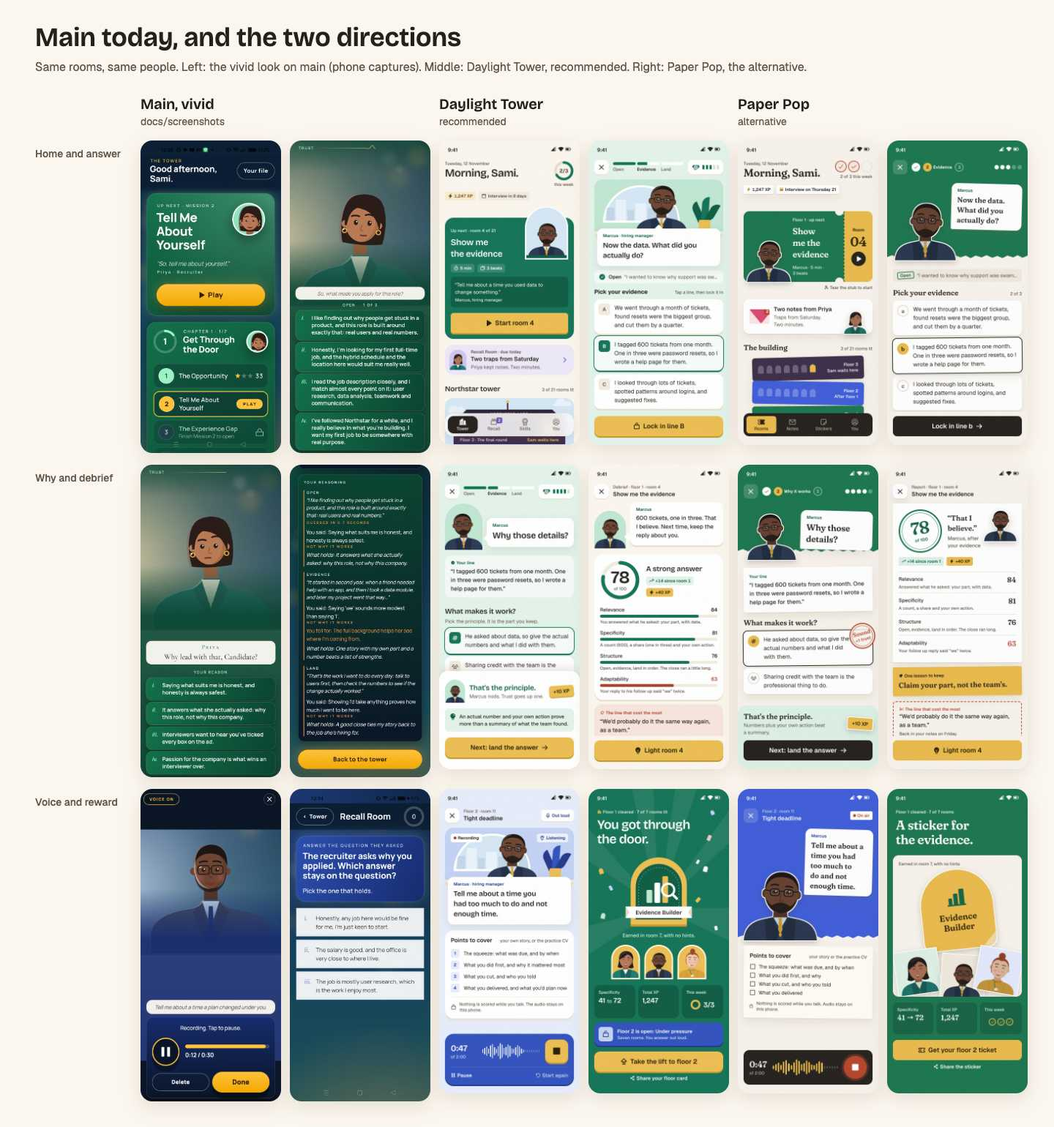
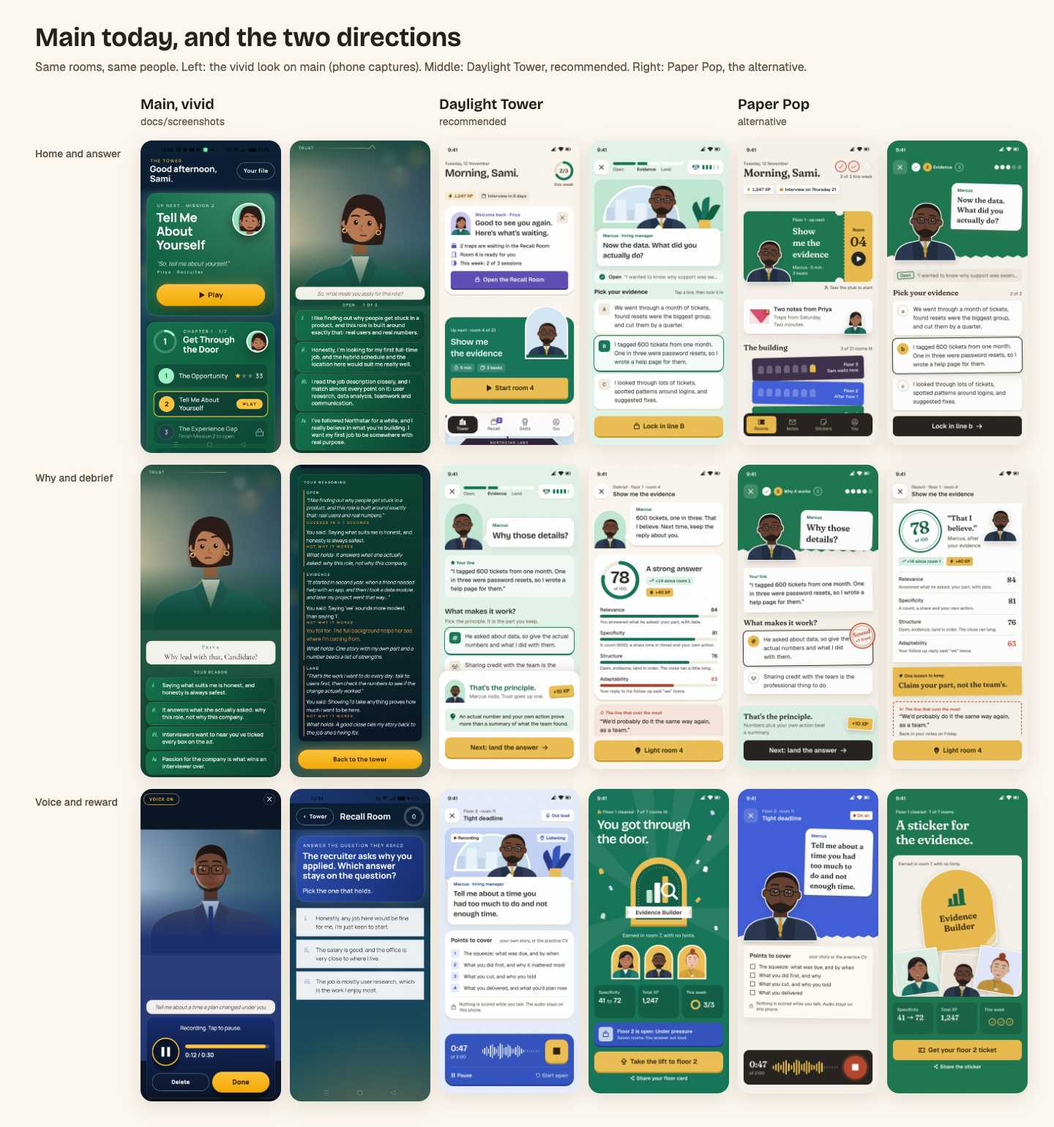
docs(design): make the direction implementation ready
Add the welcome-back card from main to the home mockup, the exact font
files and how to wire their axes, Dart token constants, the day 1, 3,
5 and 8 reminders, notes for the workers, and a shorter alternative.

Changelog: None

Changed region(s): [[0.4062, 0.187, 0.5625, 0.4052]]

diff --git a/docs/design/mockups/daylight/01b-home-tower.html b/docs/design/mockups/daylight/01b-home-tower.html
@@ -9,7 +9,7 @@
 <link rel="stylesheet" href="https://unpkg.com/@phosphor-icons/web@2.1.1/src/fill/style.css">
 <link rel="stylesheet" href="tokens.css">
 <style>
-main { padding: 8px 16px 0; transform: translateY(-520px); }
+main { padding: 8px 16px 0; transform: translateY(-640px); }
 .head { display: flex; justify-content: space-between; align-items: flex-start; }
 .head .date { color: var(--ink-2); }
 .ring { width: 56px; text-align: center; }
@@ -19,8 +19,19 @@ main { padding: 8px 16px 0; transform: translateY(-520px); }
 .tags .xp { background: #f8ead0; color: #6b4a08; }
 .tags .date { background: var(--sand); color: var(--ink-2); }
 
+.welcome { margin-top: 16px; background: var(--raised); border-radius: 24px; padding: 16px; box-shadow: var(--edge); }
+.welcome .who { display: flex; gap: 12px; align-items: flex-start; }
+.welcome .face { flex: none; width: 56px; height: 64px; background: var(--recall-soft); position: relative; }
+.welcome .face .cast { position: absolute; inset: 4px -8px 0; }
+.welcome .hi { flex: 1; }
+.welcome .hi .caption-3 { color: var(--recall); }
+.welcome .x { width: 32px; height: 32px; border-radius: 8px; background: var(--sand); display: grid; place-items: center; color: var(--ink-2); font-size: 16px; }
+.welcome .waiting { list-style: none; margin: 12px 0 0; padding: 0; display: grid; gap: 4px; }
+.welcome .waiting li { display: flex; gap: 8px; align-items: center; color: var(--ink); }
+.welcome .waiting i { color: var(--recall); font-size: 18px; }
+.welcome .go { margin-top: 12px; height: 48px; border-radius: 8px; background: var(--recall); color: #fff; display: flex; gap: 8px; align-items: center; justify-content: center; font: 600 16px/24px var(--ui); box-shadow: 0 4px 0 #43348a; }
 .next {
-	margin-top: 48px;
+	margin-top: 64px;
 	background: var(--ch1);
 	border-radius: 24px;
 	padding: 16px;
@@ -72,7 +83,7 @@ main { padding: 8px 16px 0; transform: translateY(-520px); }
 
 .skills { list-style: none; margin: 12px 0 0; padding: 0; display: grid; grid-template-columns: repeat(4, 1fr); gap: 8px; text-align: center; }
 .skills .b { display: grid; place-items: center; width: 64px; height: 76px; margin: 0 auto 8px; background: var(--sand); color: var(--ink-3); font-size: 28px; }
-.skills .next .b { background: #f8ead0; color: #6b4a08; box-shadow: 0 0 0 2px var(--honey); }
+.skills .soon .b { background: #f8ead0; color: #6b4a08; box-shadow: 0 0 0 2px var(--honey); }
 .skills .hint { color: var(--ink-2); }
 .status { background: var(--paper); }
 nav {
@@ -120,6 +131,23 @@ nav a .badge { position: absolute; top: 4px; right: 18px; min-width: 16px; heigh
 		<span class="tag date"><i class="ph-bold ph-calendar-blank"></i>Interview in 9 days</span>
 	</div>
 
+	<section class="welcome" aria-label="Welcome back">
+		<div class="who">
+			<div class="face arch"><div class="cast" data-cast="priya" data-expr="smile"></div></div>
+			<div class="hi">
+				<p class="caption-3">Welcome back · Priya</p>
+				<h2 class="heading-6">Good to see you again. Here's what's waiting.</h2>
+			</div>
+			<span class="x" aria-label="Dismiss"><i class="ph-bold ph-x"></i></span>
+		</div>
+		<ul class="waiting">
+			<li><i class="ph-fill ph-cards-three"></i><span class="body-5">2 traps are waiting in the Recall Room</span></li>
+			<li><i class="ph-fill ph-door-open"></i><span class="body-5">Room 4 is ready for you</span></li>
+			<li><i class="ph-fill ph-circle-half"></i><span class="body-5">This week: 2 of 3 sessions</span></li>
+		</ul>
+		<div class="go"><i class="ph-bold ph-cards-three"></i>Open the Recall Room</div>
+	</section>
+
 	<section class="next" aria-label="Up next">
 		<div class="top">
 			<div class="copy">
@@ -129,19 +157,9 @@ nav a .badge { position: absolute; top: 4px; right: 18px; min-width: 16px; heigh
 			</div>
 			<div class="window arch"><div class="cast" data-cast="marcus" data-expr="listening"></div><div class="sill"></div></div>
 		</div>
-		<p class="body-6 says">“Tell me about a time you used data to change something.” <span>Marcus, hiring manager</span></p>
 		<div class="btn"><i class="ph-fill ph-play"></i>Start room 4</div>
 	</section>
 
-	<section class="recall" aria-label="Recall Room">
-		<div class="face arch"><div class="cast" data-cast="priya" data-expr="talk"></div></div>
-		<div class="copy">
-			<p class="caption-3 due">Recall Room · due today</p>
-			<h3 class="body-1">Two traps from Saturday</h3>
-			<p class="body-6">Priya kept notes. Two minutes.</p>
-		</div>
-		<i class="ph-bold ph-caret-right"></i>
-	</section>
 
 	<div class="section"><h3 class="heading-6">Northstar tower</h3><span class="caption-4 tnum">3 of 21 rooms lit</span></div>
 	<div class="tower">
@@ -196,7 +214,7 @@ nav a .badge { position: absolute; top: 4px; right: 18px; min-width: 16px; heigh
 	</div>
 	<div class="section"><h3 class="heading-6">Skills</h3><span class="caption-4 tnum">Next one in room 7</span></div>
 	<ul class="skills">
-		<li class="next"><span class="b arch"><i class="ph-fill ph-chart-bar"></i></span><p class="caption-3">Evidence Builder</p><p class="caption-4 hint">Room 7</p></li>
+		<li class="soon"><span class="b arch"><i class="ph-fill ph-chart-bar"></i></span><p class="caption-3">Evidence Builder</p><p class="caption-4 hint">Room 7</p></li>
 		<li><span class="b arch"><i class="ph-bold ph-hand-waving"></i></span><p class="caption-4">Clear Introductions</p><p class="caption-4 hint">Room 7</p></li>
 		<li><span class="b arch"><i class="ph-bold ph-handshake"></i></span><p class="caption-4">Conflict Navigator</p><p class="caption-4 hint">Floor 2</p></li>
 		<li><span class="b arch"><i class="ph-bold ph-lightning"></i></span><p class="caption-4">Think Under Pressure</p><p class="caption-4 hint">Floor 3</p></li>

diff --git a/docs/design/mockups/daylight/01-home.html b/docs/design/mockups/daylight/01-home.html
@@ -19,8 +19,19 @@ main { padding: 8px 16px 0; }
 .tags .xp { background: #f8ead0; color: #6b4a08; }
 .tags .date { background: var(--sand); color: var(--ink-2); }
 
+.welcome { margin-top: 16px; background: var(--raised); border-radius: 24px; padding: 16px; box-shadow: var(--edge); }
+.welcome .who { display: flex; gap: 12px; align-items: flex-start; }
+.welcome .face { flex: none; width: 56px; height: 64px; background: var(--recall-soft); position: relative; }
+.welcome .face .cast { position: absolute; inset: 4px -8px 0; }
+.welcome .hi { flex: 1; }
+.welcome .hi .caption-3 { color: var(--recall); }
+.welcome .x { width: 32px; height: 32px; border-radius: 8px; background: var(--sand); display: grid; place-items: center; color: var(--ink-2); font-size: 16px; }
+.welcome .waiting { list-style: none; margin: 12px 0 0; padding: 0; display: grid; gap: 4px; }
+.welcome .waiting li { display: flex; gap: 8px; align-items: center; color: var(--ink); }
+.welcome .waiting i { color: var(--recall); font-size: 18px; }
+.welcome .go { margin-top: 12px; height: 48px; border-radius: 8px; background: var(--recall); color: #fff; display: flex; gap: 8px; align-items: center; justify-content: center; font: 600 16px/24px var(--ui); box-shadow: 0 4px 0 #43348a; }
 .next {
-	margin-top: 48px;
+	margin-top: 64px;
 	background: var(--ch1);
 	border-radius: 24px;
 	padding: 16px;
@@ -72,7 +83,7 @@ main { padding: 8px 16px 0; }
 
 .skills { list-style: none; margin: 12px 0 0; padding: 0; display: grid; grid-template-columns: repeat(4, 1fr); gap: 8px; text-align: center; }
 .skills .b { display: grid; place-items: center; width: 64px; height: 76px; margin: 0 auto 8px; background: var(--sand); color: var(--ink-3); font-size: 28px; }
-.skills .next .b { background: #f8ead0; color: #6b4a08; box-shadow: 0 0 0 2px var(--honey); }
+.skills .soon .b { background: #f8ead0; color: #6b4a08; box-shadow: 0 0 0 2px var(--honey); }
 .skills .hint { color: var(--ink-2); }
 .status { background: var(--paper); }
 nav {
@@ -120,6 +131,23 @@ nav a .badge { position: absolute; top: 4px; right: 18px; min-width: 16px; heigh
 		<span class="tag date"><i class="ph-bold ph-calendar-blank"></i>Interview in 9 days</span>
 	</div>
 
+	<section class="welcome" aria-label="Welcome back">
+		<div class="who">
+			<div class="face arch"><div class="cast" data-cast="priya" data-expr="smile"></div></div>
+			<div class="hi">
+				<p class="caption-3">Welcome back · Priya</p>
+				<h2 class="heading-6">Good to see you again. Here's what's waiting.</h2>
+			</div>
+			<span class="x" aria-label="Dismiss"><i class="ph-bold ph-x"></i></span>
+		</div>
+		<ul class="waiting">
+			<li><i class="ph-fill ph-cards-three"></i><span class="body-5">2 traps are waiting in the Recall Room</span></li>
+			<li><i class="ph-fill ph-door-open"></i><span class="body-5">Room 4 is ready for you</span></li>
+			<li><i class="ph-fill ph-circle-half"></i><span class="body-5">This week: 2 of 3 sessions</span></li>
+		</ul>
+		<div class="go"><i class="ph-bold ph-cards-three"></i>Open the Recall Room</div>
+	</section>
+
 	<section class="next" aria-label="Up next">
 		<div class="top">
 			<div class="copy">
@@ -129,19 +157,9 @@ nav a .badge { position: absolute; top: 4px; right: 18px; min-width: 16px; heigh
 			</div>
 			<div class="window arch"><div class="cast" data-cast="marcus" data-expr="listening"></div><div class="sill"></div></div>
 		</div>
-		<p class="body-6 says">“Tell me about a time you used data to change something.” <span>Marcus, hiring manager</span></p>
 		<div class="btn"><i class="ph-fill ph-play"></i>Start room 4</div>
 	</section>
 
-	<section class="recall" aria-label="Recall Room">
-		<div class="face arch"><div class="cast" data-cast="priya" data-expr="talk"></div></div>
-		<div class="copy">
-			<p class="caption-3 due">Recall Room · due today</p>
-			<h3 class="body-1">Two traps from Saturday</h3>
-			<p class="body-6">Priya kept notes. Two minutes.</p>
-		</div>
-		<i class="ph-bold ph-caret-right"></i>
-	</section>
 
 	<div class="section"><h3 class="heading-6">Northstar tower</h3><span class="caption-4 tnum">3 of 21 rooms lit</span></div>
 	<div class="tower">
@@ -196,7 +214,7 @@ nav a .badge { position: absolute; top: 4px; right: 18px; min-width: 16px; heigh
 	</div>
 	<div class="section"><h3 class="heading-6">Skills</h3><span class="caption-4 tnum">Next one in room 7</span></div>
 	<ul class="skills">
-		<li class="next"><span class="b arch"><i class="ph-fill ph-chart-bar"></i></span><p class="caption-3">Evidence Builder</p><p class="caption-4 hint">Room 7</p></li>
+		<li class="soon"><span class="b arch"><i class="ph-fill ph-chart-bar"></i></span><p class="caption-3">Evidence Builder</p><p class="caption-4 hint">Room 7</p></li>
 		<li><span class="b arch"><i class="ph-bold ph-hand-waving"></i></span><p class="caption-4">Clear Introductions</p><p class="caption-4 hint">Room 7</p></li>
 		<li><span class="b arch"><i class="ph-bold ph-handshake"></i></span><p class="caption-4">Conflict Navigator</p><p class="caption-4 hint">Floor 2</p></li>
 		<li><span class="b arch"><i class="ph-bold ph-lightning"></i></span><p class="caption-4">Think Under Pressure</p><p class="caption-4 hint">Floor 3</p></li>

diff --git a/docs/design/direction.md b/docs/design/direction.md
@@ -27,7 +27,7 @@ more editorial, a little less calm. See [the alternative](#the-alternative-paper
 
 | Screen | Daylight Tower (recommended) | Paper Pop (alternative) |
 | --- | --- | --- |
-| Home, the tower | `mockups/daylight/png/01-home.jpg`, scrolled: `01b-home-tower.jpg` | `mockups/paper/png/01-home.jpg` |
+| Home, the tower (a day 3 return, with the welcome-back card) | `mockups/daylight/png/01-home.jpg`, scrolled: `01b-home-tower.jpg` | `mockups/paper/png/01-home.jpg` |
 | Answer cards with the interviewer | `02-answer.jpg` | `02-answer.jpg` |
 | The "why that line?" step | `03-why.jpg` | `03-why.jpg` |
 | Voice recording (chapter 2) | `04-voice.jpg` | `04-voice.jpg` |
@@ -135,10 +135,54 @@ All values live in `packages/brand` and nowhere else (non-negotiable 1). Every t
 | `ch3` / `ch3-deep` / `ch3-tint` / `ch3-soft` | `#C23A62` / `#8A2343` / `#FBE6EC` / `#F3C0CF` | Floor 3, "The final round" | white on ch3 5.2 |
 | `honey` / `honey-edge` / `on-honey` | `#EBBE52` / `#C3962F` / `#2A1E05` | **The one action accent**: primary buttons, XP, lit windows | on-honey 9.3 |
 | `trap` / `trap-tint` | `#A8432B` / `#F8E4DC` | The weakest dimension, "the line that cost the most" (clay, never alarm red) | 4.9 on tint, 5.6 on paper |
-| `recall` / `recall-tint` / `recall-soft` | `#5E4BB4` / `#ECE8F8` / `#CFC6EF` | The Recall Room | 5.6 on tint |
+| `recall` / `recall-deep` / `recall-tint` / `recall-soft` | `#5E4BB4` / `#43348A` / `#ECE8F8` / `#CFC6EF` | The Recall Room, the welcome-back button | 5.6 on tint, white on recall 6.7 |
 | `sky` / `sky-cloud` / `dusk` | `#D4E6F4` / `#EAF3FA` / `#3B2A4A` | Illustration only: the sky, the final floor at dusk | honey on dusk 7.4 |
 
-Rules: text on a chapter colour is white or that chapter's `-on`, never `-soft` (3.6:1, fails).
+```dart
+// packages/brand/lib/src/daylight.dart (names are the contract; values from the table above)
+abstract final class DaylightColors {
+  static const paper = Color(0xFFFBF6EE), sand = Color(0xFFF3EBDF), sand2 = Color(0xFFE7DCCB);
+  static const raised = Color(0xFFFFFFFF), ink = Color(0xFF24201C), ink2 = Color(0xFF5E554B);
+  static const honey = Color(0xFFEBBE52), honeyEdge = Color(0xFFC3962F), onHoney = Color(0xFF2A1E05);
+  static const trap = Color(0xFFA8432B), trapTint = Color(0xFFF8E4DC);
+  static const recall = Color(0xFF5E4BB4), recallDeep = Color(0xFF43348A);
+  static const recallTint = Color(0xFFECE8F8), recallSoft = Color(0xFFCFC6EF);
+  static const sky = Color(0xFFD4E6F4), skyCloud = Color(0xFFEAF3FA), dusk = Color(0xFF3B2A4A);
+  static const cityFar = Color(0xFFC2D6E8), desk = Color(0xFFE9DCC6), deskTop = Color(0xFFF5ECDD);
+}
+
+/// One floor's colours; `ChapterGrade` gets a getter that returns them.
+@immutable
+class FloorColours {
+  const FloorColours({required this.base, required this.deep, required this.tint, required this.soft, required this.on});
+  final Color base, deep, tint, soft, on;
+}
+const floor1 = FloorColours(base: Color(0xFF147356), deep: Color(0xFF0E5C44), tint: Color(0xFFE3F3EA), soft: Color(0xFFBFE6D2), on: Color(0xFFD6F0E2));
+const floor2 = FloorColours(base: Color(0xFF3152BD), deep: Color(0xFF22398A), tint: Color(0xFFE6ECFB), soft: Color(0xFFC3D2F5), on: Color(0xFFD3DEFA));
+const floor3 = FloorColours(base: Color(0xFFC23A62), deep: Color(0xFF8A2343), tint: Color(0xFFFBE6EC), soft: Color(0xFFF3C0CF), on: Color(0xFFFFF0F4));
+
+abstract final class DaylightSpace {
+  static const s2 = 2.0, s4 = 4.0, s8 = 8.0, s12 = 12.0, s16 = 16.0, s24 = 24.0;
+  static const s32 = 32.0, s40 = 40.0, s48 = 48.0, s64 = 64.0, s80 = 80.0, s96 = 96.0;
+}
+abstract final class DaylightRadius {
+  static const tag = 6.0, inner = 8.0, tile = 12.0, card = 16.0, panel = 24.0, arch = 999.0;
+}
+abstract final class DaylightMotion {
+  static const ease = Cubic(0.22, 1, 0.36, 1);
+  static const press = Duration(milliseconds: 200), colour = Duration(milliseconds: 300);
+  static const move = Duration(milliseconds: 500), stagger = Duration(milliseconds: 60);
+  static const staggerCap = Duration(milliseconds: 400);
+}
+abstract final class DaylightElevation {
+  static const edge = [BoxShadow(color: DaylightColors.sand2, offset: Offset(0, 4))];
+  static const lift = [BoxShadow(color: Color(0x1F5E4828), blurRadius: 24, offset: Offset(0, 8))];
+}
+```
+
+`floor3.on` (`#FFF0F4`, 4.7:1 on `#C23A62`) completes the set; the mockups never set soft text on
+floor 3. Rules: text on a chapter colour is white or that chapter's `-on`, never `-soft` (3.6:1,
+fails).
 Honey is never text on green. Every HSL saturation is under 80% (the skill's limit; main's
 sunflower was 100%). Shadows: the edge is `0 4px 0 sand-2` (or the element's `-deep`), and the
 lift is `0 8px 24px rgb(94 72 40 / 0.12)`.
@@ -163,8 +207,42 @@ lift is `0 8px 24px rgb(94 72 40 / 0.12)`.
 slightly irregular ink traps. At display sizes it has personality, a bit of hand-made warmth,
 without being rounded or childish. It reads as "made by a studio", not "default app". Geist (OFL,
 an approved font in the skill) is a neutral, very legible UI sans with a large x-height, good for
-non-native readers at 14–16. Both get bundled in `packages/brand/fonts/` (offline, no runtime
-fetch), replacing Manrope and Cormorant Garamond.
+non-native readers at 14–16.
+
+**The font files** (bundled, offline, no runtime fetch; they replace Manrope and Cormorant
+Garamond in `packages/brand/pubspec.yaml`). Google Fonts ships both as variable fonts only:
+
+| File (from `github.com/google/fonts`, main) | Into | Axes used | Licence |
+| --- | --- | --- | --- |
+| `ofl/bricolagegrotesque/BricolageGrotesque[opsz,wdth,wght].ttf` | `packages/brand/fonts/bricolage_grotesque/BricolageGrotesque-Variable.ttf` | `wght` 600, `opsz` = the font size (12–96), `wdth` 100 | `ofl/bricolagegrotesque/OFL.txt`, copied beside it |
+| `ofl/geist/Geist[wght].ttf` | `packages/brand/fonts/geist/Geist-Variable.ttf` | `wght` 400, 500, 600 | `ofl/geist/OFL.txt` |
+| (alternative only) `ofl/fraunces/Fraunces[SOFT,WONK,opsz,wght].ttf` | not bundled unless Paper Pop is chosen | `wght` 600, `SOFT` 100, `WONK` 0 | `ofl/fraunces/OFL.txt` |
+
+```yaml
+# packages/brand/pubspec.yaml
+flutter:
+  fonts:
+    - family: BricolageGrotesque
+      fonts:
+        - asset: fonts/bricolage_grotesque/BricolageGrotesque-Variable.ttf
+    - family: Geist
+      fonts:
+        - asset: fonts/geist/Geist-Variable.ttf
+```
+
+Every named style sets its axes explicitly, so the app matches the browser-rendered mockups
+(which used automatic optical sizing):
+
+```dart
+TextStyle(
+  fontFamily: 'BricolageGrotesque', package: 'brand',
+  fontSize: 24, height: 32 / 24, letterSpacing: -0.24, fontWeight: FontWeight.w600,
+  fontVariations: [FontVariation.weight(600), FontVariation.opticalSize(24)],
+)
+```
+
+`fonts_test.dart` asserts every style resolves to a bundled family. The web loads the same two
+families through `next/font/google` (self-hosted at build).
 
 ### Space, radius, elevation
 
@@ -269,6 +347,8 @@ Streak won an award for kindness, so the habit gauge is weekly and forgiving.
 | When | What brings them back | Where it shows |
 | --- | --- | --- |
 | End of every room | XP, the room lights up, and a **dated promise**: "Back in your Recall Room on Friday" | Debrief, the "line that cost the most" card |
+| Reminders (main #51) | Local reminders on **days 1, 3 and 5, then day 8**, then silence. At most one a day, at the player's usual hour, Recall first. "Send a test reminder" in Settings | Notification, then a deep link. WS2 restyles the Settings row only |
+| Any return after a day away | The **welcome-back card**, in the next interviewer's voice, with one button to what's waiting | Home, the first card (`01-home`) |
 | Day 1 | A Recall note due, in the voice of the interviewer who caught the trap ("Marcus remembers what you said about the deadline. Do you?") | Notification → Recall Room. A home card with "due today", a tab badge |
 | **Day 3** | The second Leitner box: "Welcome back, Sami. Marcus caught you on this one. Want another go?" No hints this time. The weekly ring says "This closes 3 of 3 for the week." | `07-recall`: the note with tape and a day counter |
 | **Day 5** | The ring nudge ("One more session closes your week"), plus the story thread left open: "Lena has one more question for you…" If an interview date is set: "Interview in 5 days: a six minute warm-up." | Home: the ring, a Lena note card, the date tag |
@@ -293,16 +373,26 @@ letter tile; idle, pressed, selected, dimmed, locked), `FeedbackSheet`, `ScoreDi
 `ChapterTint` (sets ch/ch-deep/ch-tint/ch-on for a subtree), `Grain` (5% noise; replaces film
 grain). Each one gets a `/dev/catalog` entry and goldens for every state.
 
-### 1 · Home, the tower (`features/tower/`, `01-home`, `01b-home-tower`)
+### 1 · Home, the tower (`features/tower/`; `01-home` is a day 3 return, `01b-home-tower` is scrolled)
 
 On paper. From the top: the date (Caption 4), "Morning, Sami." (Heading 4) and the **weekly
 ring** (56, ch1 on sand-2, "2/3"); tags for XP and the interview countdown. The **up-next card**
 is ch1, r24, with the interviewer's arch window breaking 48 above its top edge. Inside: the
 kicker "Up next · room 4 of 21", the mission title (Heading 5), tags (5 min, 3 beats), the
-interviewer's question on ch1-deep (r8), and `TactileButton` "Start room 4" (r8, by the nested
-rule). Next comes the **Recall card** (recall-tint, r24) with the hosting interviewer in an arch,
-"Recall Room · due today", the count and the minutes. It moves above the up-next card when two
-or more notes are due. Then **Northstar tower**, the illustration as the progress bar: three
+interviewer's question on ch1-deep (r8; left out while the welcome-back card is up, to keep the
+button above the fold), and `TactileButton` "Start room 4" (r8, by the nested rule).
+
+On a return after a day or more away, the **welcome-back card** (main's
+`features/tower/welcome_back_card.dart`, PR #51; restyle only, keep its logic and copy rules)
+comes first, above the up-next card: white, r24, edge. It holds the next room's interviewer in a
+56 × 64 arch (`smile`), the kicker "Welcome back · Priya" (Caption 3, recall colour, **sentence
+case**, replacing `WELCOME BACK · PRIYA`), the greeting (Heading 6), the "waiting" lines as icon
+rows (Phosphor fill, recall colour, Body 5), a dismiss tile (32, sand), and its one button in the
+**recall colour** (white text 6.7:1, `recallDeep` edge), so it never competes with the honey
+up-next button. While it is up, the Recall card is not repeated, because the welcome card
+already names the cards due. Otherwise the **Recall card** (recall-tint, r24) shows the hosting
+interviewer in an arch, "Recall Room · due today", the count and the minutes; it moves above the
+up-next card when two or more notes are due. Then **Northstar tower**, the illustration as the progress bar: three
 floors (dusk / ch2-soft / ch1), seven arched windows each (lit honey with a check, current with
 the interviewer inside and a glow ring, unlit). The labels sit on the facade. Then the **skills
 shelf**: four arch badges, the next one ringed in honey with "Room 7". The `FloatingTabBar`
@@ -437,29 +527,14 @@ Icons via `@phosphor-icons/react`. Tokens in `web/src/app/globals.css` mirror
 
 ## The alternative: Paper Pop
 
-*Cut paper, stickers and room tickets: an editorial magazine that turned into a game.*
-
-- **Motif:** each room is a **ticket** whose stub you tear to start. The interviewers are
-  **stickers** with a white die-cut edge (CapWords' sticker moment). Scores are **stamped**
-  (inherited from the original dossier). The weekly goal is a **stamp card**, Recall arrives as
-  an **envelope**, and the building is a stack of torn paper slabs.
-- **Colour:** paper `#F7F3EC`, ink `#221E1A`; fern `#19744D`, ultramarine `#3D5BD9`, raspberry
-  `#D9476B`; sun `#E9B949` for skill stickers and tear stubs; ink-black primary buttons. The
-  top of each mission screen is the chapter's sheet, torn along the bottom.
-- **Type:** **Fraunces** (soft axis at 100, 600, never italic) for display: a warm, wonky,
-  editorial serif with a magazine's confidence. **Geist** for reading.
-- **Feels like:** Imprint and Babbel's cut-outs meet CapWords. It's more playful and more
-  "designed" than Daylight, with less calm and more texture. The rotations, tears and stickers
-  need care to stay grown-up at scale.
-- **Choose it if** the owner wants the product to feel like a magazine you play, or if Daylight
-  reads too close to other learning apps on the phone.
-
-Why Daylight is the recommendation: it's the shorter step from the vivid look the owner liked
-(the same chapter colours, rings and honey, the same tower). It has a stronger home (the tower as
-the progress bar), and it's calmer for an anxious user. Paper Pop's ticket and stamp ideas can
-still be borrowed into it later (the stamp card for the week is a good one).
-
----
+*Cut paper, stickers and room tickets.* Each room is a ticket whose stub you tear to start; the
+interviewers are die-cut stickers; scores are stamped; the week is a stamp card; Recall arrives as
+an envelope. Paper `#F7F3EC`, ink `#221E1A`, fern `#19744D`, ultramarine `#3D5BD9`, raspberry
+`#D9476B`, sun `#E9B949`. **Fraunces** (soft 100, 600) for display, Geist for reading. It's more
+editorial and more playful, less calm, and it needs care to stay grown-up. It isn't the
+recommendation because Daylight is the shorter step from the vivid look the owner liked, has the
+stronger home (the tower is the progress bar) and is calmer for an anxious player. Borrowable
+later: the weekly stamp card.
 
 ## Implementation plan: three parallel workstreams
 
@@ -472,6 +547,14 @@ own PR with before/after stills and goldens.
 | **Delivers** | Tokens and AA tests, `ThemeData`, named text styles, motion tokens, the 15 kit widgets with every state, the cast with seven expressions and idle, catalog pages and goldens | The seven screens above, the eight micro-interactions, the home Recall card and skills shelf, the reward screen, the day 3 and day 5 surfaces, the weekly ring logic, reduced-motion paths, offline/empty/error states | The page per the landing spec, the tagline reveal, panel, FAQ, 404, meta, the React cast; Lighthouse mobile budget kept |
 | **Depends on** | Nothing; lands first, small (tokens, fonts, kit skeletons, cast) | WS1's tokens and kit API (can start on screens against stubs on day 1) | WS1's cast data (`cast.json`) for portraits; everything else independent |
 | **Done when** | `check:standards` passes (no raw colours outside brand), contrast tests are green, goldens are reviewed | Every screen matches its mockup at 390 × 844 on the owner's phone, with 1×, 2× text and reduced motion checked | All of Part B's checklist ticked, checked at 390, 768 and 1440 |
+
+**Notes for the workers.** Start from current `main`. It has PR #50's design skills in
+`.claude/skills/` and PR #51's welcome-back card and reminders: restyle those, don't rewrite their
+logic. Brief 33 (a tower restyle in the w7 worktree) touches the same `features/tower/` files as
+WS2, so land or close it first, or fold it into WS2. WS3 starts from `main`'s `web/`, not from the
+paused w8 branch, but should lift that branch's `HeroPhone` loop idea (restyled) and drop its
+portraits for the shared cast. Read the mockup HTML for exact layout values: every size, gap and
+colour in `docs/design/mockups/daylight/*.html` and `tokens.css` is a token from this document.
 
 Order: WS1 opens first and merges within a day (it's mostly tokens and leaf widgets). WS2 and
 WS3 start the same day against its API, and rebase when it lands. Events: the new moments need
